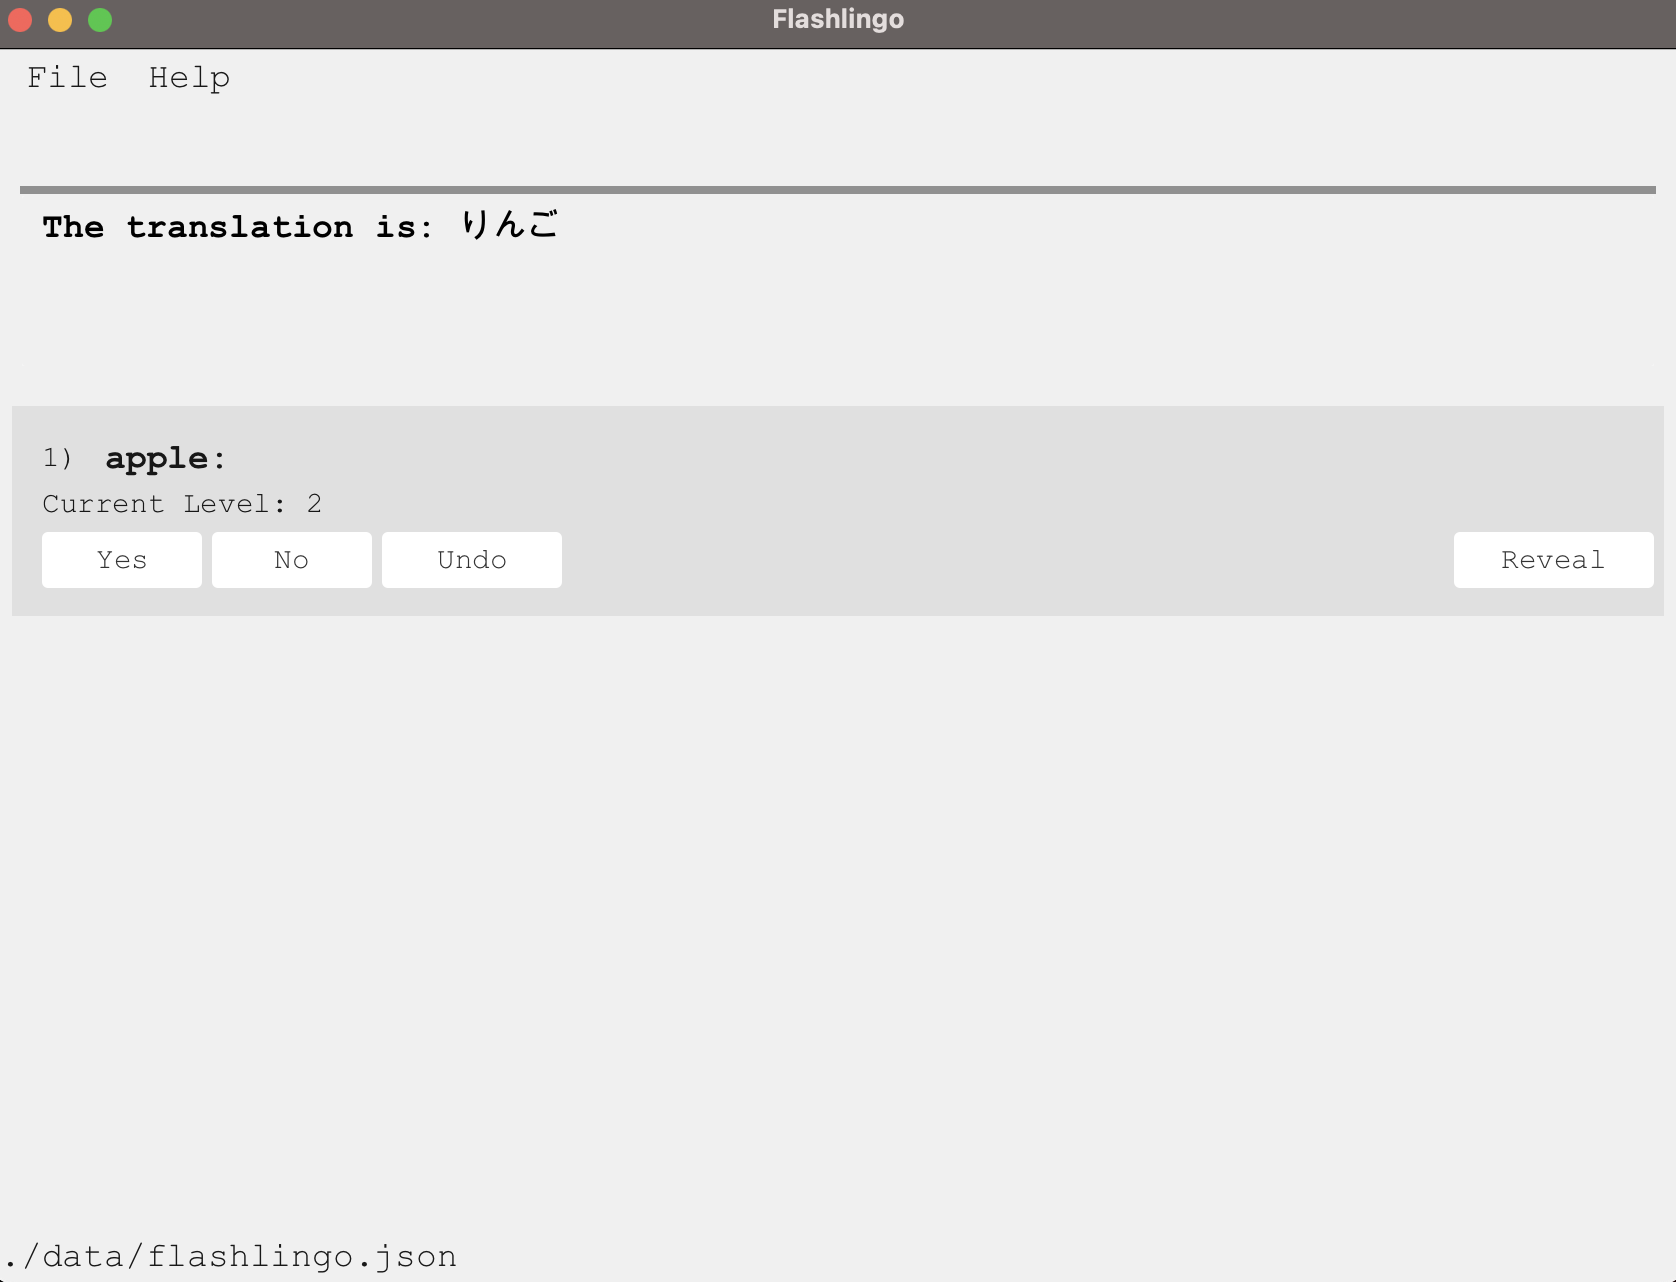
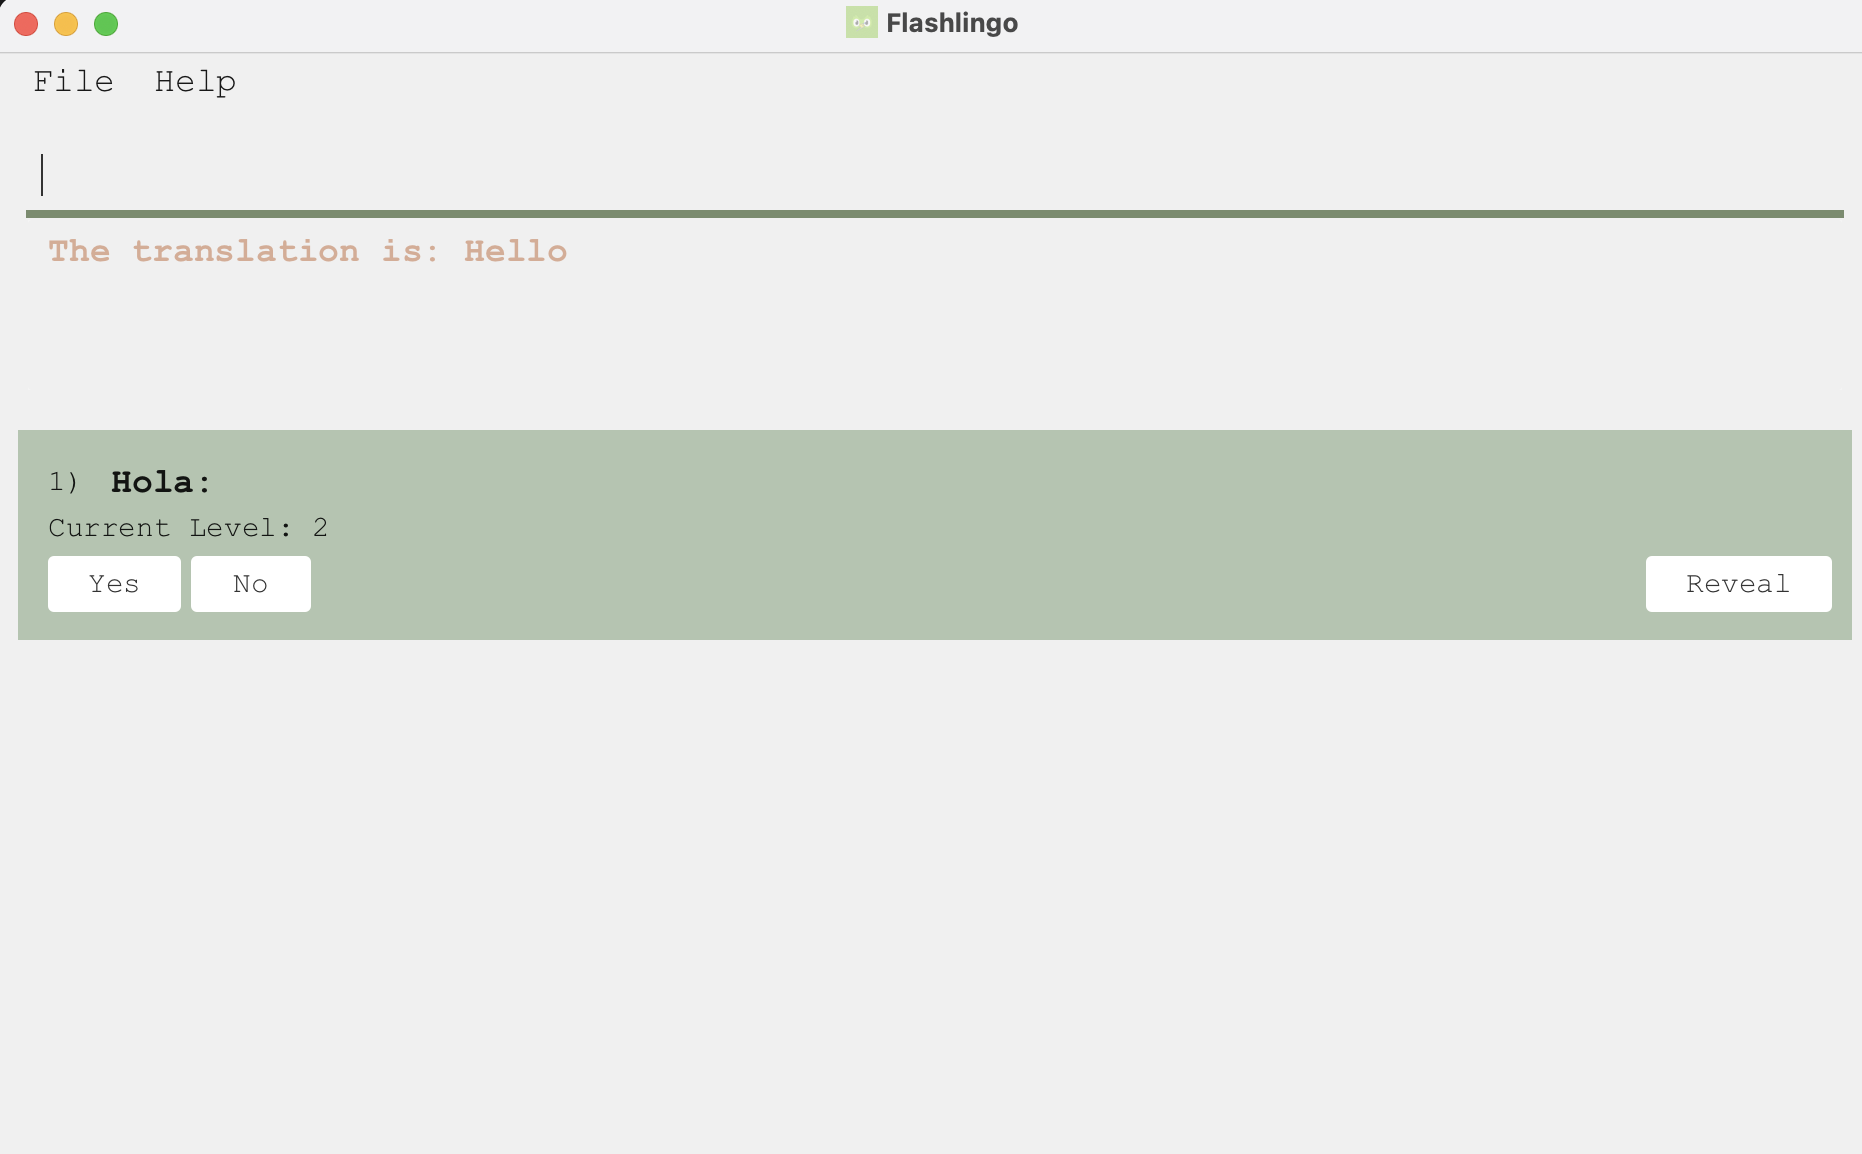
Update UG with section start, end, yes, no and reveal

diff --git a/src/main/java/seedu/flashlingo/logic/parser/FlashlingoParser.java b/src/main/java/seedu/flashlingo/logic/parser/FlashlingoParser.java
@@ -112,6 +112,8 @@ public class FlashlingoParser {
             throw new ParseException(MESSAGE_NOT_IN_REVIEW_SESSION);
         case SwitchCommand.COMMAND_WORD:
             return new SwitchCommand();
+        case RevealCommand.COMMAND_WORD:
+            throw new ParseException(MESSAGE_NOT_IN_REVIEW_SESSION);
         default:
             logger.finer("This user input caused a ParseException: " + userInput);
             throw new ParseException(MESSAGE_UNKNOWN_COMMAND);

diff --git a/docs/UserGuide.md b/docs/UserGuide.md
@@ -137,34 +137,72 @@ To start a review session, user simply needs to type in `start` command, and a n
 
 Format: `start`
 
+Output: `Review Session has been started.`
 
-### Ending the current flashcard session : `end`
+**Note** 
+* Users are not allowed to start a new review session if they are already in one. In this case,   
+`Sorry, currently you are in a review session. Your command is not supported.`   
+`Please end the review session first.` will be prompted.
+* If there are no words to review, users will not be able to start review session. `There's no FlashCards to review. Well done!`  
+will be displayed.
+
+
+### Ending the current review session : `end`
 
 Ends the current flashcard session and returns to the main menu.
 
 Format: `end`
 
-### Revealing the other side (translation) of the flash card : `reveal`
+Output: `Review Session has ended.`
 
-To show the meaning of 
+**Note** 
+* Users are not allowed to end a review session if the session hasn't been started yet. The message of `You are not in a review session.`  
+will be given.
+
+### Revealing translation of the flashcard : `reveal`
+
+To show the translation of the flashcard in 
 
 Format: `reveal`
 
-Output :
-![img.png](images/Reveal.png)
+Output : `The translation is [CURRENT FLASHCARD'S TRANSLATION]`  
+
+Examples:![img.png](images/Reveal.png)
+
+**Note**
+* `reveal` command will only take effect during review session. Otherwise, error message`You are not in a review session.`  
+will be printed out.
 
 ### Indicating user has memorized the word : `yes`
 
-Marks the word as memorized and pushes the word into the next retention stage.
+Marks the word as memorized and advances the word into the next retention stage. If there are still remaining words to review,
+they will be automatically shown in the section below. Otherwise, review session will be closed by default.
 
 Format: `yes`
 
+Output: ![img.png](images/Yes.png)
+or
+![img.png](images/Yes2.png)
+if there's no word left in the review session.
+
+**Note**
+* `yes` command will only take effect during review session. Otherwise, error message`You are not in a review session.`  
+  will be printed out.
 
 ###  Indicating user has forgotten the word : `no`
 
-Marks the word as not grasped and leaves it in its current retention stage.
+Marks the word as not grasped and leaves it in its current retention stage. If there are still remaining words to review,
+they will be automatically shown in the section below. Otherwise, review session will be closed by default.
 
 Format: `no`
+
+Output: ![img.png](images/No.png)
+or
+![img.png](images/No2.png)
+if there's no word left in the review session.
+**Note**
+* `no` command will only take effect during review session. Otherwise, error message`You are not in a review session.`  
+  will be printed out.
 
 ### Show learning statistics : `stats`
 
